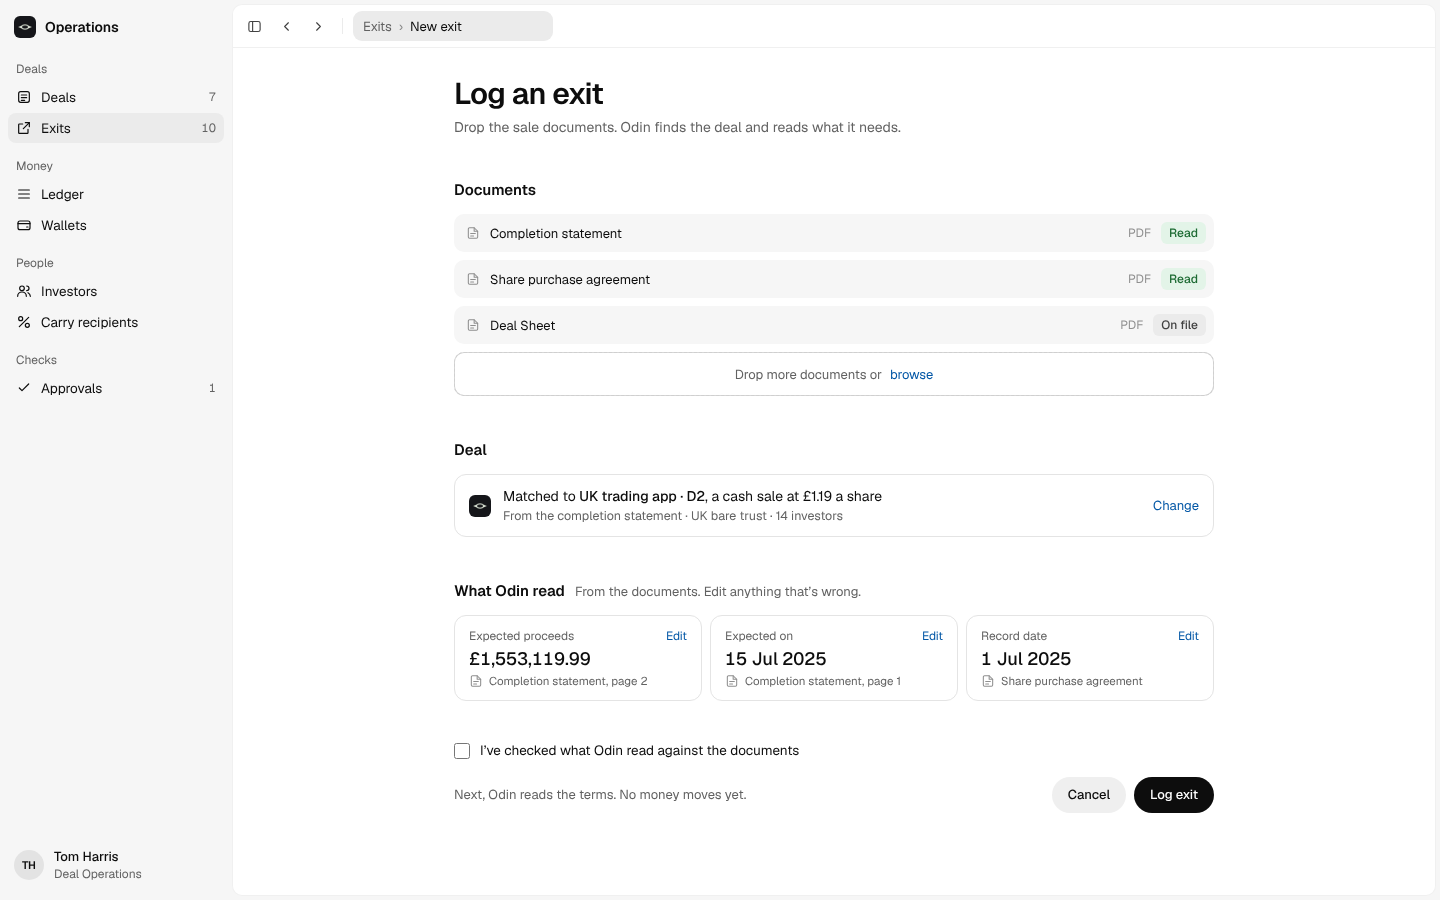
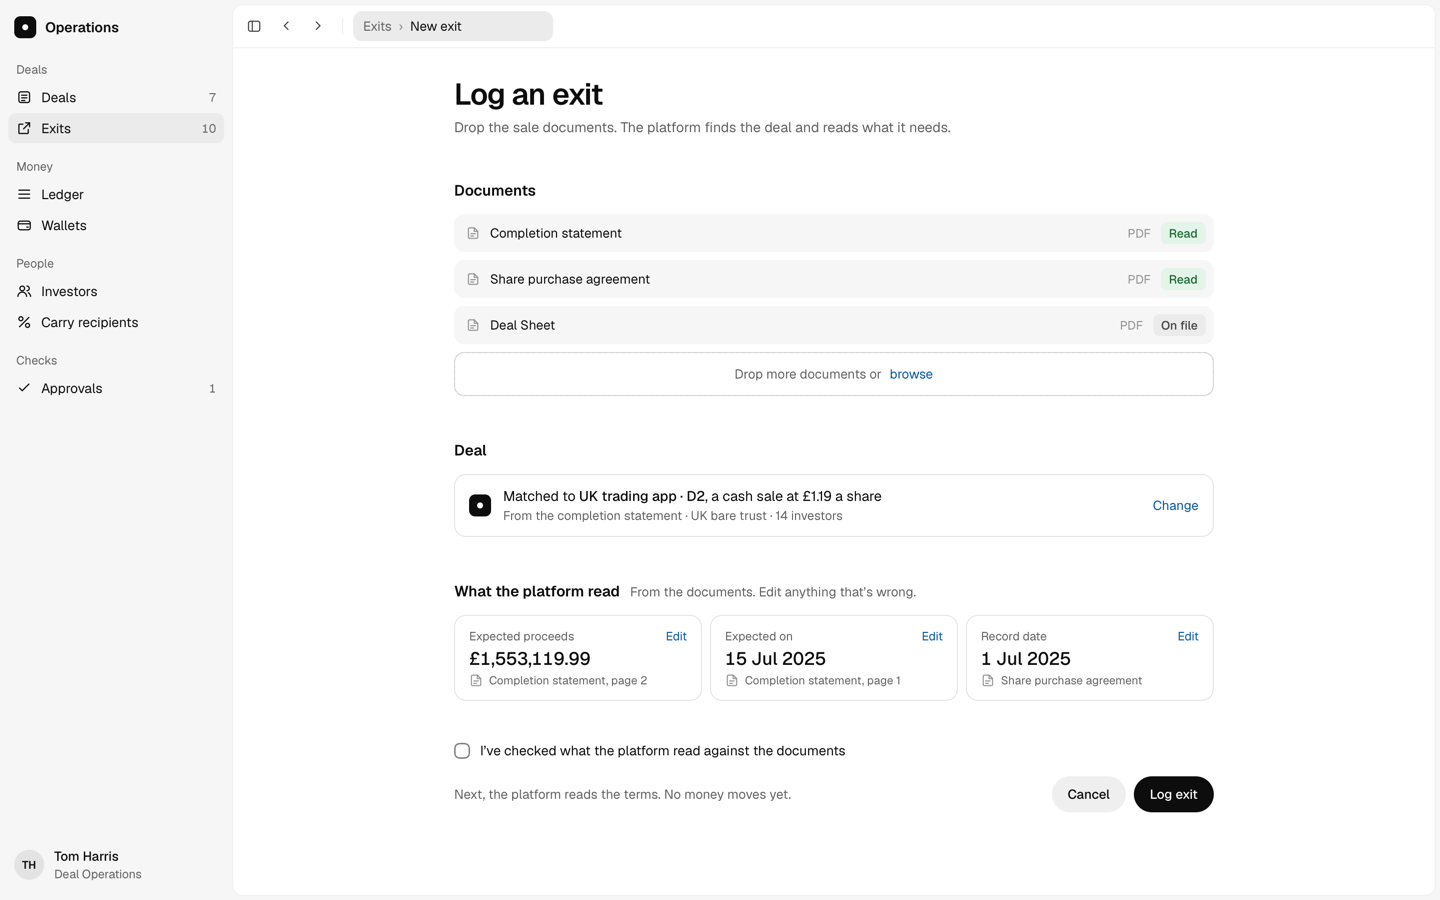
Remove Odin from the Carry project text and images.

diff --git a/src/content/projects.ts b/src/content/projects.ts
@@ -217,12 +217,12 @@ export const projects: Project[] = [
     "key": "cy",
     "slug": "carry",
     "title": "Carry and distribution engine",
-    "blurb": "Taking carry and payouts out of a spreadsheet at Odin, a London SPV platform.",
+    "blurb": "Taking carry and payouts out of a spreadsheet at a London SPV platform.",
     "slides": [
       {
         "kind": "wall",
         "cap": "The paper.",
-        "capText": "Carry at Odin, from the spice merchants to my first 90 days.",
+        "capText": "Carry, from the spice merchants to my first 90 days.",
         "imgs": [
           {
             "src": "/work/cy-page-01.jpg",
@@ -280,7 +280,7 @@ export const projects: Project[] = [
           },
           {
             "src": "/work/cy-page-16.jpg",
-            "alt": "Where Odin’s own pages disagree",
+            "alt": "Where the platform’s own pages disagree",
             "width": 774,
             "height": 1094
           },
@@ -348,10 +348,10 @@ export const projects: Project[] = [
       {
         "kind": "web",
         "cap": "Log an exit.",
-        "capText": "Odin reads the amount and dates, each with the page it came from.",
+        "capText": "The platform reads the amount and dates, each with the page it came from.",
         "img": {
           "src": "/work/be964eb2d3f50dafa08ab518cdd94378.png",
-          "alt": "Log an exit: Odin reads the sale documents",
+          "alt": "Log an exit: the platform reads the sale documents",
           "width": 1440,
           "height": 900
         }
@@ -359,7 +359,7 @@ export const projects: Project[] = [
       {
         "kind": "web",
         "cap": "Settle the terms.",
-        "capText": "Profit is defined twice. Odin won’t pick; a person does.",
+        "capText": "Profit is defined twice. The platform won’t pick; a person does.",
         "img": {
           "src": "/work/24e04272072845447c3ab2cab14011d1.png",
           "alt": "Settle the terms: two clauses define profit differently",
